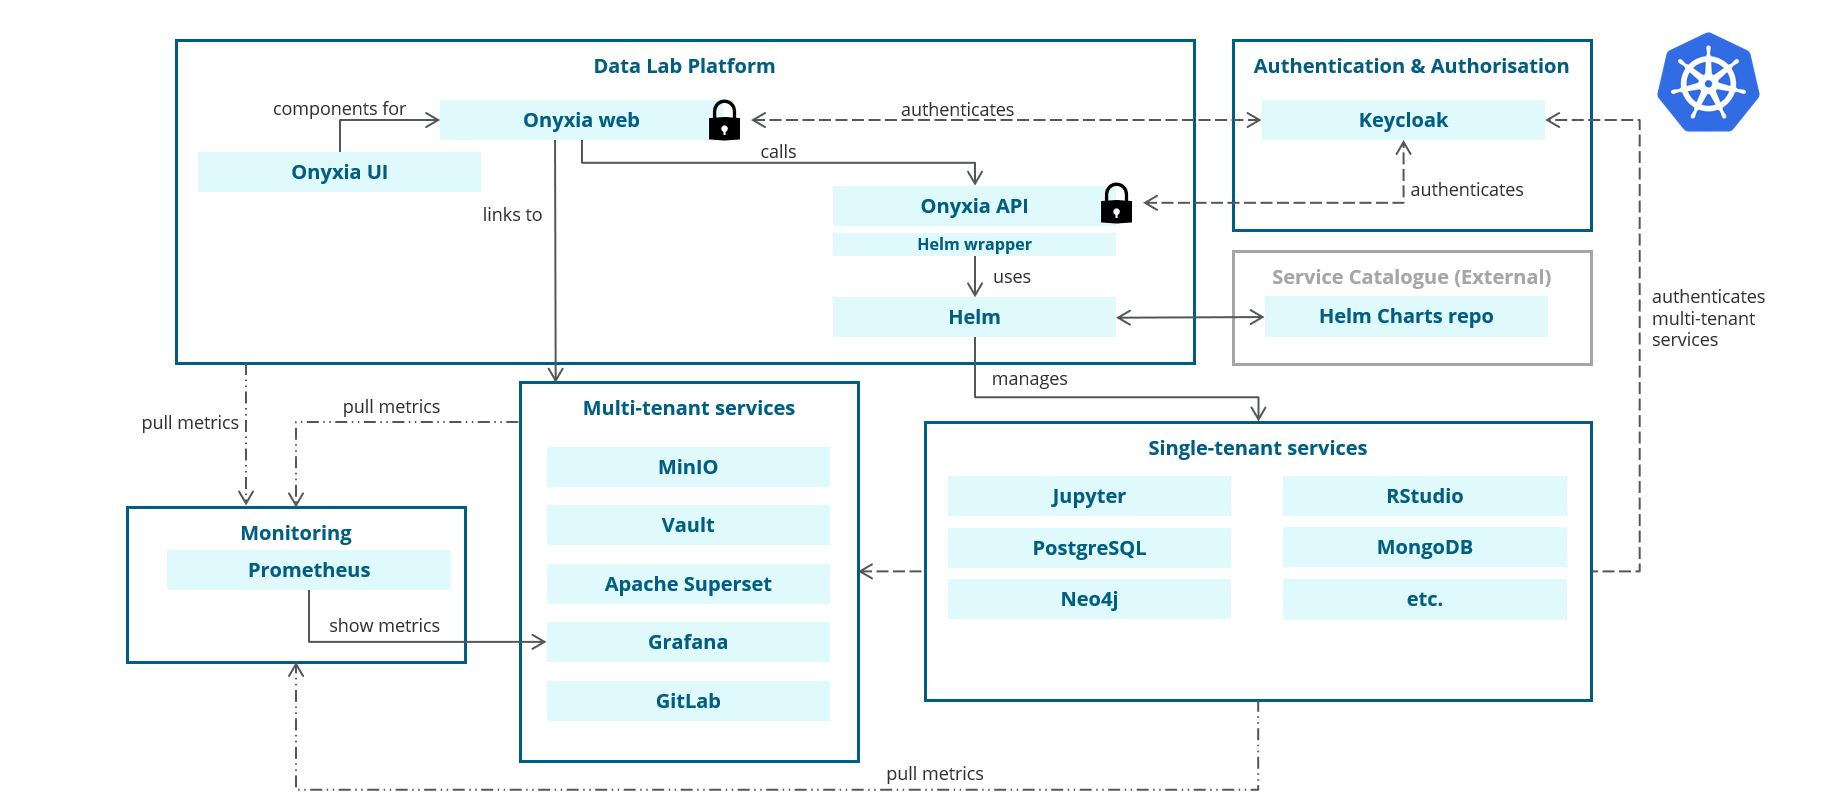
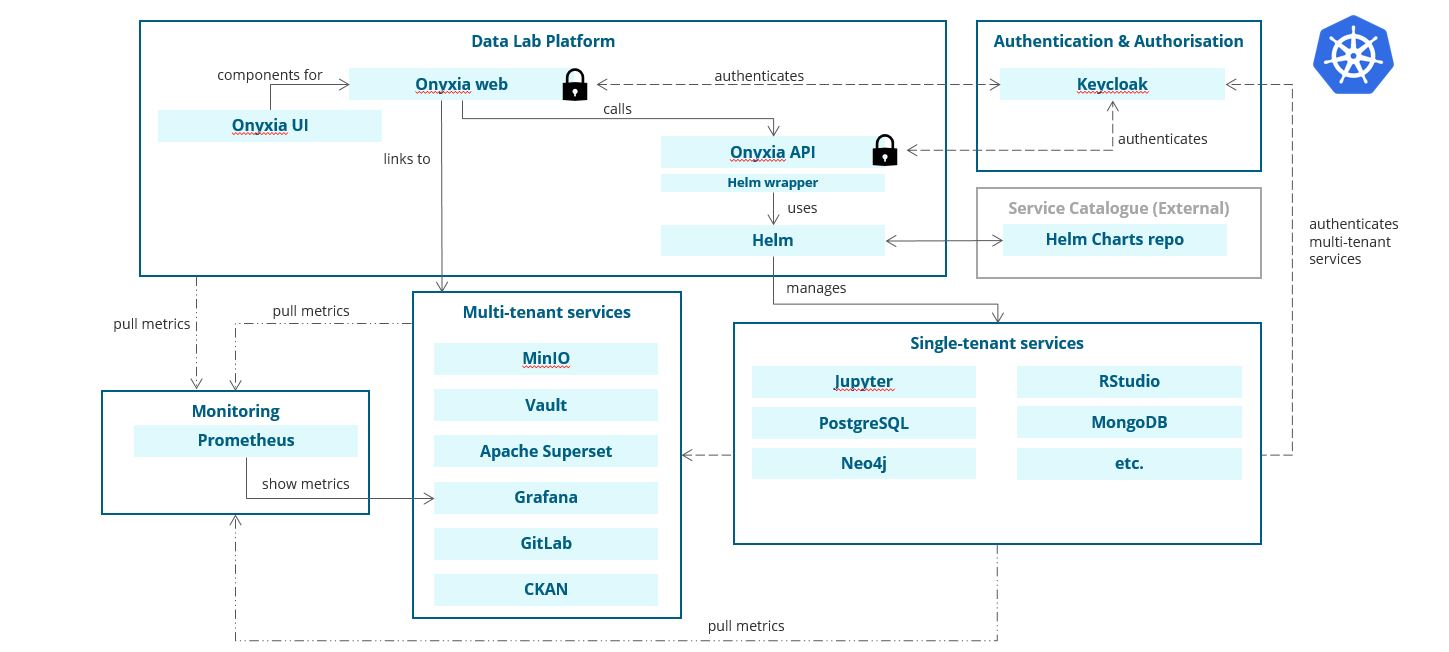
Update on documentation according to current implementations.

Changed region(s): [[0.0621, 0.0307, 0.9627, 0.9816], [0.0621, 0.4908, 0.1553, 0.5521]]

diff --git a/docs/ARCHITECTURE.md b/docs/ARCHITECTURE.md
@@ -42,23 +42,17 @@ The main component of the Data Lab is [Onyxia](https://github.com/InseeFrLab/ony
 - Authentication, based on the [Open ID Connect](https://openid.net/connect/) or [OAuth 2.0](https://oauth.net/2/), for Onyxia and multi-tenant services (i.e., MinIO, Vault, Grafana, Apache Superset, and GitLab)
 - Authorisation, managed by the platform administrator on Keycloak's administrator portal, through `jwt` claims
 
-[MinIO](https://min.io/) will serve as the storage provider, with authenticated access from Keycloak through:
-- Onyxia web interface
-- MinIO console (web interface)
-- MinIO CLI
+[MinIO](https://min.io/) will serve as the storage provider, with Keycloak SSO.
 
-[Vault](https://www.vaultproject.io/) will serve as the secrets manager service, with authenticated access from Keycloak through:
-- Onyxia web interface
-- Vault CLI
+[Vault](https://www.vaultproject.io/) will serve as the secrets manager service, with Keycloak SSO.
 
-[Prometheus](https://prometheus.io/) and [Grafana](https://grafana.com/) will be for the monitoring and observation, with authenticated access from Keycloak through:
-- Grafana interface (link available on Onyxia web, or use a known host name, e.g., `grafana.example-data-lab.com`).
+[CKAN](https://ckan.org/) will serve as the Data Catalog, with Keycloak SSO.
 
-[Apache Superset](https://superset.apache.org/) will be the data visualisation service, with authenticated access from Keycloak through:
-- Apache Superset interface (link available on Onyxia web, or use a known host name, e.g., `apachesuperset.example-data-lab.com`).
+[Prometheus](https://prometheus.io/) and [Grafana](https://grafana.com/) will be for the monitoring and observation, with Keycloak SSO, to provide dashboards with user's consumption and platform load.
 
-[GitLab](https://about.gitlab.com/) will be the projects and code collaboration tool, with authenticated access from Keycloak through:
-- GitLab interface (link available on Onyxia web, or use a known host name, e.g., `gitlab.example-data-lab.com`).
+[Apache Superset](https://superset.apache.org/) will be the data visualisation service, with Keycloak SSO.
+
+[GitLab](https://about.gitlab.com/) will be the projects and code collaboration tool, with Keycloak SSO.
 
 
 
@@ -171,6 +165,8 @@ The purpose to add a simple storage service is for users to have their own stora
 
 > This configurations should be automated during launching of the Data Lab service, for more information consult the [DEPLOYMENT.md](./DEPLOYMENT.md) document. 
 
+Additional configuration for users to access buckets with groups retrieved from token claim `groups` can be done at policy level. To allow a user access it would be necessary to add him to a group and to edit the policy for that specific bucket.
+
 More information on how to configure MinIO for Onyxia can be found on [Onyxia GitHub](https://github.com/InseeFrLab/onyxia).
 
 
@@ -204,11 +200,18 @@ Vault users should be able to authenticate themselves with their token, and be r
 - Create a role for the Data Lab Users.
 - Configure policies for user access based on `preferred_name` claim and initialize secret engine.
 
-> This configurations should be automated during launching of the Data Lab service, for more information consult the [DEPLOYMENT.md](./DEPLOYMENT.md) document. 
+> This configurations are to be ran in a script after launching of the Data Lab service, for more information consult the [DEPLOYMENT.md](./DEPLOYMENT.md) document. 
 
 More information on how to configure Vault for Onyxia can be found on [Onyxia GitHub](https://github.com/InseeFrLab/onyxia).
 
 
+
+
+# Data Catalog
+A Data Catalog service will be implemented by [CKAN](https://ckan.org/).
+
+## CKAN configuration
+CKAN can (optionally) be deployed with the rest of the platform, it is necessary to keep in mind that most CKAN configurations have to be made in the image itself, for more information consult the [DEPLOYMENT.md](./DEPLOYMENT.md) document.
 
 
 

diff --git a/docs/DEPLOYMENT.md b/docs/DEPLOYMENT.md
@@ -57,7 +57,7 @@ To enable the TLS protocol, we will use [Let's Encrypt](https://letsencrypt.org/
 ```
 cerbot certonly --manual
 ```
-Ensure you generate a certificate for your sub-domains too, for example: `example.test,*.example.test`.
+Ensure you generate a certificate for your sub-domains too, for example: `example.test,*.example.test,*.kub.example.test`.
 
 After following the instructions, set-up your Ingress controller to use your certificates. First, create a secret with the privatekey and the certificate chain:
 ```
@@ -110,19 +110,52 @@ Finally, the domain must redirect to the ingress controller. Create a wildcard r
 
 ## Data Lab Deployment
 
+There are a few steps required to launch a complete instance of our Helm Chart:
+1. Getting a domain and updating its DNS values, as well as configuring TLS certificates
+2. Get an SMTP Server (email) to enable Keycloak to have all its features available
+3. Match a `_realm-template.tpl` definition of `Realm` and `Clients` with your set values
+4. Create a `onyxia-web` image to add necessary connections (p.e. to the data catalog)
+5. Create a `Ckan` image to enable Keycloak's SSO on image build
+6. Decide wether to create multiple databases or just one and set `values.yaml` accordingly
+
 Helm install complete package with all the initial configurations already set up, for more information on the Chart check the [Chart README.md](../charts/datalab/README.md). *Helm Charts must be adapted to the domain used*
 
+Keep in mind it is necessary to:
+- have the created Ckan image published and referenced in `values.yaml` if the data catalog feature is desired.
+  - have the created Onyxia-web image published and referenced in `values.yaml` if it is desired to have a  link in the frontend redirecting to the data catalog (for now)
+- configure `Postgres` as a dependency and disable it in other services to achieve a deployment with only one DB, **OR** disable the `Postgres` dependency and leave the it enabled in the other services to have multiple DBs.
+
+More information on these configurations may be found below in the **Configurable Parameters** section, in [Chart README.md](../charts/datalab/README.md).
+
+After having the desired configurations achieved, you can install the chart:
+
 ```
-cd charts/datalab
+cd datalab/charts/datalab
 helm upgrade --install datalab . -f values.yaml --wait
 ```
 
-The default `values.yaml` can be modified but keep in mind that:
-- client IDs for minio should match the ones given in the `_realm-config.tpl` (*to be resolved*)
-- URLs for onyxia should match the ones built in the `_realm-config.tpl` (*to be resolved*)
-
-> **ATTENTION** ensure you do not commit your `values.yaml` with secrets to the SCM.
-
 ## Additional Configurations
 
-...
+After successful installation, configure HashiCorp's Vault to be used by Onyxia and Keycloak `jwt` authentication.
+```bash
+kubectl exec --stdin --tty datalab-vault-0 -- /bin/sh
+
+# inside the pod... place both to 1 in development for ease of use
+vault operator init -key-shares=5 -key-threshold=3
+
+# ******************** IMPORTANT ******************** 
+# Get Unseal Key shares and root token: keep them SAFE!
+# ******************** IMPORTANT ********************
+
+vault operator unseal # key share 1
+vault operator unseal # key share 2
+vault operator unseal # key share 3
+
+# Run the mounted configmap with the root-token as env var
+VAULT_TOKEN=<root-token> ./vault/scripts/configscript.sh
+```
+
+And enable CORS for Onyxia access.
+```
+curl --header "X-Vault-Token: <root-token>" --request PUT --data '{"allowed_origins": ["https://datalab.clouddatalab.eu", "https://vault.clouddatalab.eu" ]}'  https://vault.clouddatalab.eu/v1/sys/config/cors
+```
